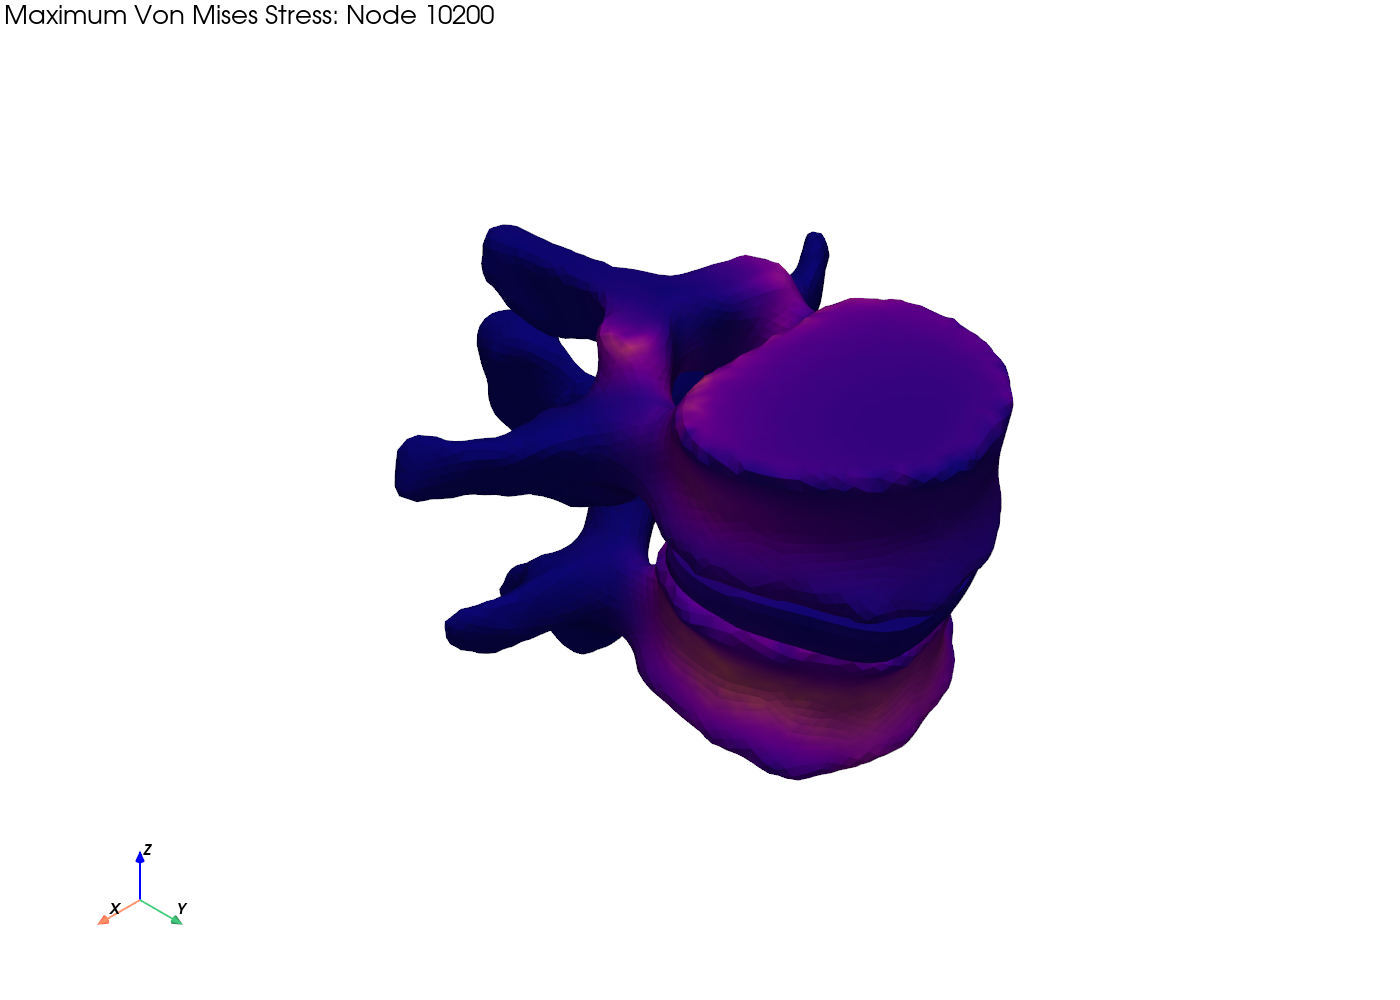
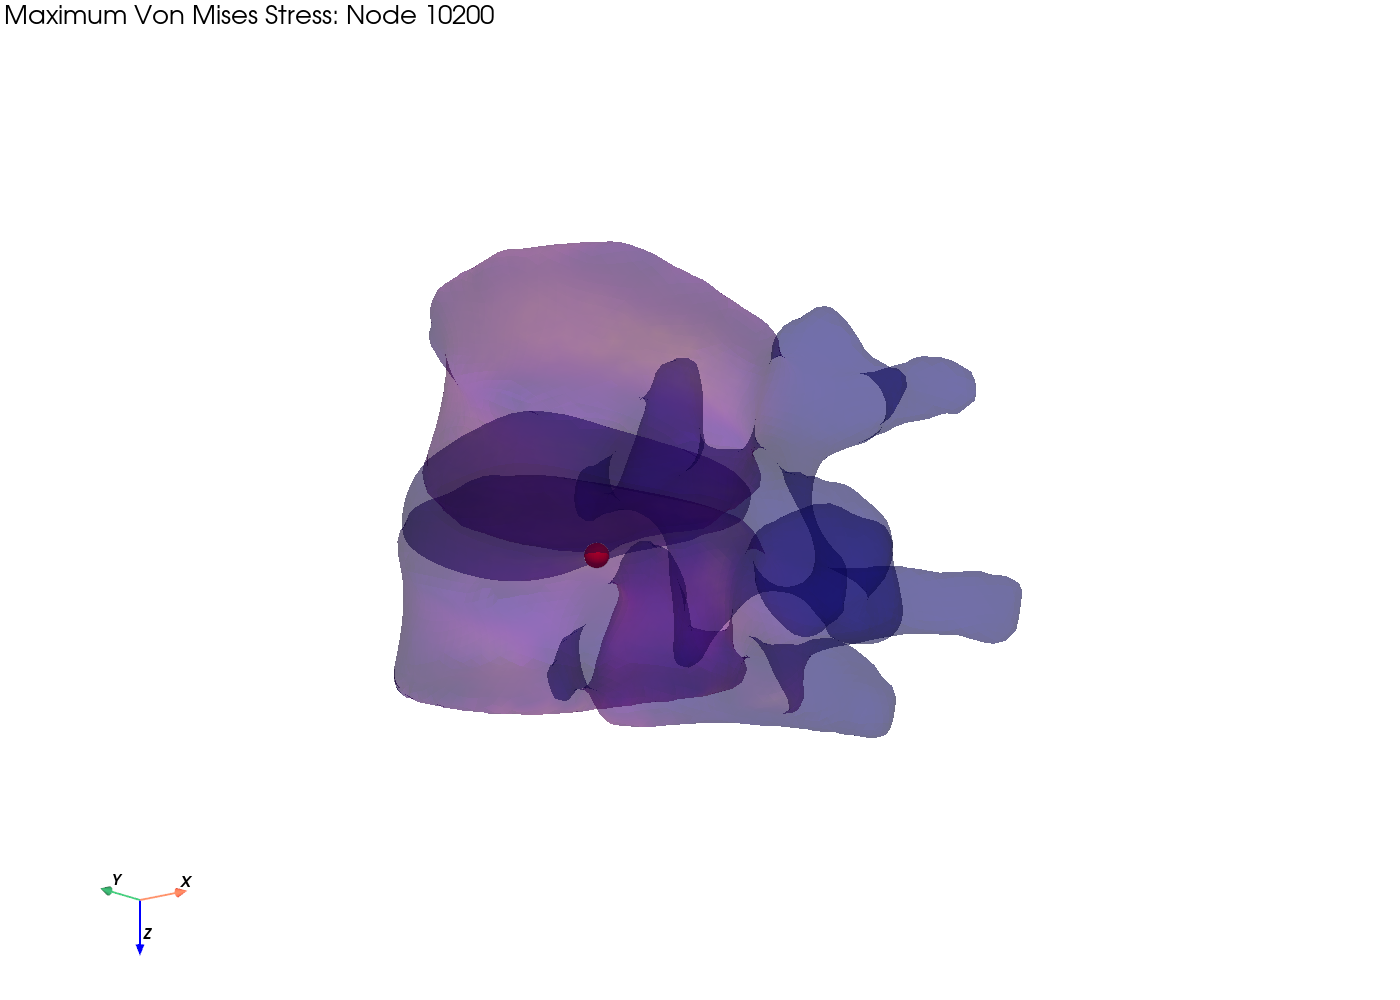
Correct anatomical orientation and improve FEA visualisations

Changed region(s): [[0.2764, 0.217, 0.7371, 0.806], [0.0614, 0.837, 0.1536, 0.961]]

diff --git a/scripts/visualize_fea_results.py b/scripts/visualize_fea_results.py
@@ -36,12 +36,32 @@ plotter.add_mesh(
     scalar_bar_args={
         "title": "Displacement (mm)",
         "vertical": True,
-    },
+        "position_x": 0.82,
+        "position_y": 0.15,
+        "height": 0.65,
+    }
 )
 
+# ---------------------------------------------------------
+# ANATOMICAL CAMERA ORIENTATION
+# ---------------------------------------------------------
+#
+# The mesh uses positive Z as anatomically inferior.
+# Set negative Z as the camera's upward direction so that L1 appears above L2 in the rendered image.
+#
+# This changes only the visualisation, not the mesh or the underlying finite element results.
+
 plotter.add_axes()
-plotter.view_isometric()
-plotter.reset_camera()
+
+plotter.camera_position = [
+    (
+        mesh.center[0] + 180,
+        mesh.center[1] + 220,
+        mesh.center[2] + 70,
+    ),
+    mesh.center,
+    (0, 0, -1),
+]
 
 plotter.add_text(
     "L1-L2 Axial Compression: Displacement Magnitude",
@@ -83,15 +103,45 @@ stress_plotter.add_mesh(
     cmap="plasma",
     clim=[0, 1.6],
     show_edges=False,
+    # ---------------------------------------------------------
+    # STRESS COLOUR BAR POSITIONING
+    # ---------------------------------------------------------
+    #
+    # Move the colour bar inward to prevent its title
+    # from being clipped at the right edge.
+    #
+    # Use the same positioning as the displacement figure
+    # for a consistent presentation.
+
     scalar_bar_args={
         "title": "Von Mises stress (MPa)",
         "vertical": True,
-    },
+        "position_x": 0.82,
+        "position_y": 0.15,
+        "height": 0.65,
+    }
 )
 
+# ---------------------------------------------------------
+# ANATOMICAL CAMERA ORIENTATION
+# ---------------------------------------------------------
+#
+# Match the displacement visualisation camera.
+# Negative Z points upward on screen, placing L1 above L2.
+#
+# Using the same camera makes displacement and stress distributions easier to compare.
+
 stress_plotter.add_axes()
-stress_plotter.view_isometric()
-stress_plotter.reset_camera()
+
+stress_plotter.camera_position = [
+    (
+        mesh.center[0] + 180,
+        mesh.center[1] + 220,
+        mesh.center[2] + 70,
+    ),
+    mesh.center,
+    (0, 0, -1),
+]
 
 stress_plotter.add_text(
     "L1-L2 Axial Compression: Von Mises Stress",
@@ -129,11 +179,20 @@ diagnostic_plotter = pv.Plotter(
     window_size=(1400, 1000)
 )
 
+# ---------------------------------------------------------
+# TRANSLUCENT SURFACE FOR INTERNAL NODE VISUALISATION
+# ---------------------------------------------------------
+#
+# The maximum-stress node may be located inside the mesh.
+# A translucent surface allows the red location marker
+# to remain visible through the surrounding anatomy.
+
 diagnostic_plotter.add_mesh(
     surface,
     scalars="Von Mises Stress",
     cmap="plasma",
     clim=[0, 1.6],
+    opacity=0.35,
     show_scalar_bar=False,
 )
 
@@ -149,9 +208,26 @@ diagnostic_plotter.add_mesh(
     opacity=1.0,
 )
 
+# ---------------------------------------------------------
+# ANATOMICAL CAMERA ORIENTATION
+# ---------------------------------------------------------
+#
+# Match the displacement and von Mises stress figures.
+# Positive Z is anatomically inferior in this mesh.
+# Using negative Z as the camera-up vector places L1 above L2 without changing the simulation geometry.
+
 diagnostic_plotter.add_axes()
-diagnostic_plotter.view_isometric()
-diagnostic_plotter.reset_camera()
+
+diagnostic_plotter.camera_position = [
+    (
+        mesh.center[0] + 180,
+        mesh.center[1] + 220,
+        mesh.center[2] + 70,
+    ),
+    mesh.center,
+    (0, 0, -1),
+]
+
 diagnostic_plotter.set_background("white")
 
 diagnostic_plotter.add_text(
@@ -220,8 +296,28 @@ section_plotter.add_mesh(
     },
 )
 
-# View the section perpendicular to its cutting plane.
-section_plotter.view_yz()
+# ---------------------------------------------------------
+# ANATOMICAL CAMERA ORIENTATION — YZ CROSS-SECTION
+# ---------------------------------------------------------
+#
+# The section is perpendicular to the X-axis.
+# Position the camera along positive X, looking toward the centre of the section.
+#
+# Negative Z is anatomically superior in this mesh.
+# Setting camera-up to negative Z places L1 above L2.
+#
+# This changes only the viewing orientation.
+
+section_plotter.camera_position = [
+    (
+        section.center[0] + 200,
+        section.center[1],
+        section.center[2],
+    ),
+    section.center,
+    (0, 0, -1),
+]
+
 section_plotter.reset_camera()
 section_plotter.set_background("white")
 
